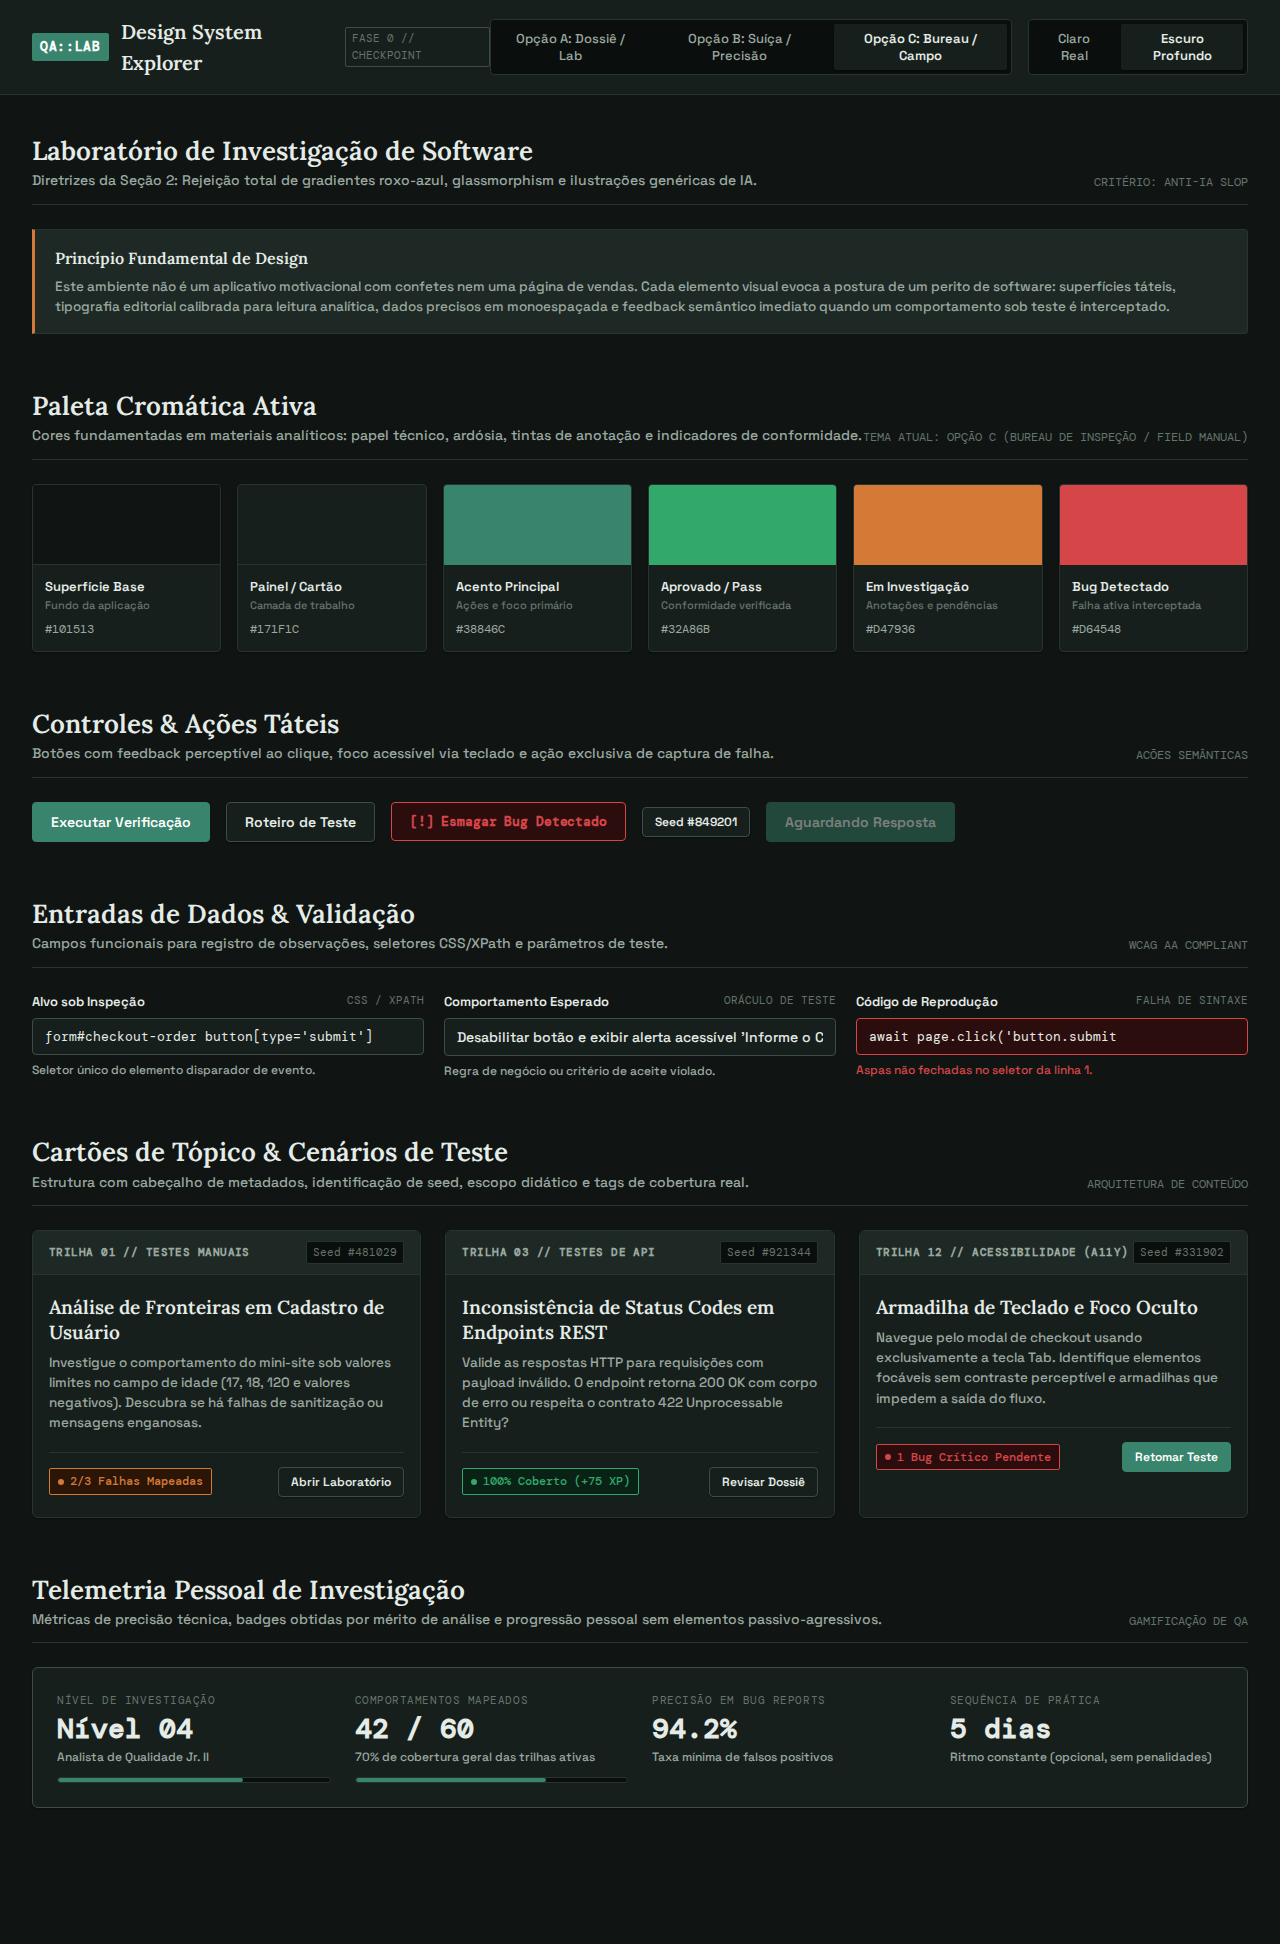
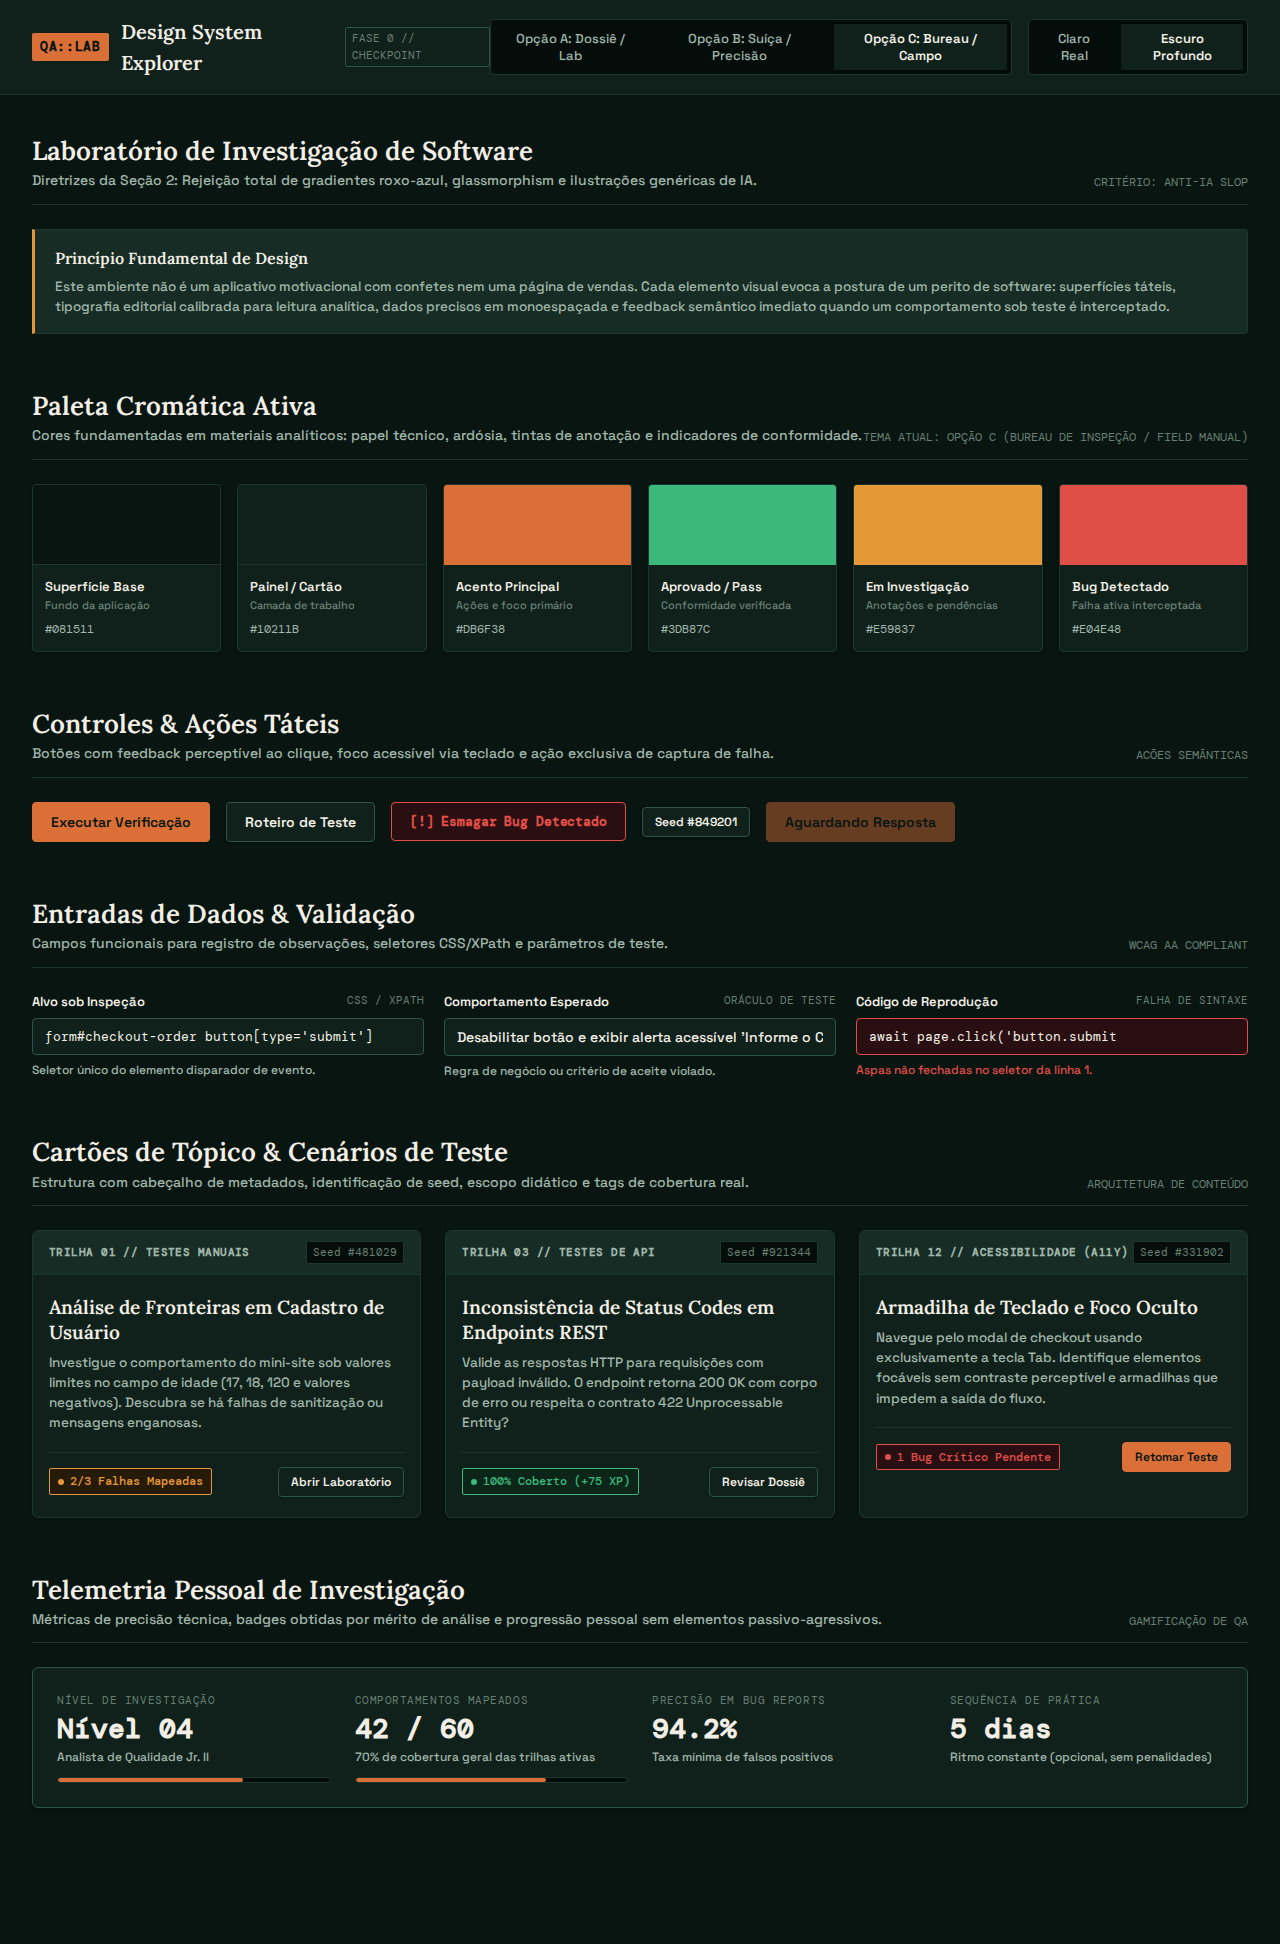
refactor(design-system): redesign Option C dark mode with deep forest green surfaces and prominent oxidized copper signature

diff --git a/prototypes/design-system.css b/prototypes/design-system.css
@@ -12,10 +12,10 @@
 @import url('https://fonts.googleapis.com/css2?family=DM+Mono:ital,wght@0,400;0,500;1,400&family=IBM+Plex+Mono:wght@400;500;600&family=IBM+Plex+Sans:wght@400;500;600;700&family=JetBrains+Mono:wght@400;500;600;700&family=Lora:ital,wght@0,500;0,600;1,400&family=Newsreader:ital,opsz,wght@0,6..72,400;0,6..72,500;0,6..72,600;1,6..72,400&family=Plus+Jakarta+Sans:wght@400;500;600;700&family=Space+Grotesk:wght@500;600;700&display=swap');
 
 /* ==========================================================================
-   THEME EXPLORATION 1: DOSSIÊ INVESTIGATIVO / LAB TELEMETRY (Padrão Recomendado)
+   THEME EXPLORATION 1: DOSSIÊ INVESTIGATIVO / LAB TELEMETRY (Opção A)
    ========================================================================== */
 [data-theme="option-a"][data-mode="light"] {
-  --bg-app: #F6F4EF;
+  --bg-app: #F6F4EF;                  /* Papel pergaminho técnico */
   --bg-surface: #FFFFFF;
   --bg-surface-raised: #FAF9F6;
   --bg-surface-sunken: #ECEAE3;
@@ -50,28 +50,28 @@
 }
 
 [data-theme="option-a"][data-mode="dark"] {
-  --bg-app: #0D1013;
-  --bg-surface: #15191D;
-  --bg-surface-raised: #1C2126;
-  --bg-surface-sunken: #090B0D;
-  --border-subtle: #242A30;
-  --border-strong: #363E47;
+  --bg-app: #091216;                  /* Ardósia petróleo mineral profunda */
+  --bg-surface: #0F1B22;              /* Painel em ardósia petróleo */
+  --bg-surface-raised: #16242D;
+  --bg-surface-sunken: #050B0D;
+  --border-subtle: #1C2F3A;
+  --border-strong: #2D4857;
   --border-focus: #3AA1B8;
 
-  --text-primary: #E6E9EC;
-  --text-secondary: #9DA6B0;
-  --text-muted: #6B7480;
+  --text-primary: #E7ECF0;
+  --text-secondary: #95A6B1;
+  --text-muted: #647682;
 
-  --accent-primary: #2D7D90;
-  --accent-primary-hover: #3AA1B8;
+  --accent-primary: #258197;          /* Petróleo luminoso calibrado */
+  --accent-primary-hover: #3299B2;
   --accent-primary-contrast: #FFFFFF;
 
-  --status-investigating: #D68A1A;
-  --status-investigating-bg: #271C0B;
-  --status-pass: #29A66C;
-  --status-pass-bg: #0C2317;
-  --status-bug: #D63F3F;
-  --status-bug-bg: #2B1111;
+  --status-investigating: #DE8F1F;
+  --status-investigating-bg: #271A09;
+  --status-pass: #26A96C;
+  --status-pass-bg: #092417;
+  --status-bug: #D64242;
+  --status-bug-bg: #2B0F0F;
 
   --font-display: 'Newsreader', Georgia, serif;
   --font-sans: 'Plus Jakarta Sans', -apple-system, BlinkMacSystemFont, sans-serif;
@@ -80,12 +80,12 @@
   --radius-sm: 3px;
   --radius-md: 6px;
   --radius-lg: 8px;
-  --shadow-subtle: 0 1px 3px rgba(0, 0, 0, 0.3);
-  --shadow-raised: 0 6px 16px rgba(0, 0, 0, 0.45);
+  --shadow-subtle: 0 1px 3px rgba(0, 0, 0, 0.35);
+  --shadow-raised: 0 6px 16px rgba(0, 0, 0, 0.5);
 }
 
 /* ==========================================================================
-   THEME EXPLORATION 2: ESTAÇÃO SUÍÇA / TECHNICAL PRECISION
+   THEME EXPLORATION 2: ESTAÇÃO SUÍÇA / TECHNICAL PRECISION (Opção B)
    ========================================================================== */
 [data-theme="option-b"][data-mode="light"] {
   --bg-app: #ECEEEF;
@@ -158,11 +158,13 @@
 }
 
 /* ==========================================================================
-   THEME EXPLORATION 3: BUREAU DE INSPEÇÃO / FIELD MANUAL
+   THEME EXPLORATION 3: BUREAU DE INSPEÇÃO / FIELD MANUAL (Opção C)
+   REDESENHADO: Modo escuro com superfícies em verde floresta profundo,
+   cobre oxidado preservado como cor de assinatura vibrante e contraste tátil.
    ========================================================================== */
 [data-theme="option-c"][data-mode="light"] {
-  --bg-app: #F2EFE9;
-  --bg-surface: #FAF8F4;
+  --bg-app: #F2EFE9;                  /* Cartão kraft fino */
+  --bg-surface: #FAF8F4;              /* Papel de campo marfim */
   --bg-surface-raised: #FFFFFF;
   --bg-surface-sunken: #E5E1D7;
   --border-subtle: #D5D0C3;
@@ -196,28 +198,30 @@
 }
 
 [data-theme="option-c"][data-mode="dark"] {
-  --bg-app: #101513;
-  --bg-surface: #171F1C;
-  --bg-surface-raised: #1E2925;
-  --bg-surface-sunken: #0A0E0C;
-  --border-subtle: #27342F;
-  --border-strong: #3B4D46;
-  --border-focus: #4EA387;
+  /* Fundo atmosférico em Verde Floresta Noturno (pigmento conífero real) */
+  --bg-app: #081511;                  /* Noite florestal densa com pigmento real de pinho */
+  --bg-surface: #10211B;              /* Painel em ardósia conífera encorpada */
+  --bg-surface-raised: #162C24;       /* Camada sobreposta destacada */
+  --bg-surface-sunken: #050D0A;       /* Reentrância profunda */
+  --border-subtle: #1C382E;           /* Filete de musgo escuro */
+  --border-strong: #2D5446;           /* Borda estrutural nítida */
+  --border-focus: #DB6F38;            /* Foco no cobre de assinatura */
 
-  --text-primary: #E5ECE7;
-  --text-secondary: #9AA8A0;
-  --text-muted: #64736B;
+  --text-primary: #F3EFE6;            /* Marfim quente de pergaminho antigo (legibilidade máxima) */
+  --text-secondary: #A0B6AA;          /* Sálvia acinzentada técnica */
+  --text-muted: #677F73;              /* Notas de rodapé e metadados discretos */
 
-  --accent-primary: #38846C;
-  --accent-primary-hover: #4EA387;
-  --accent-primary-contrast: #FFFFFF;
+  /* Cobre Oxidado preservado como cor de assinatura vibrante */
+  --accent-primary: #DB6F38;          /* Cobre oxidado de alta presença visual */
+  --accent-primary-hover: #E88350;
+  --accent-primary-contrast: #081511; /* Texto em verde conífero escuro sobre botão de cobre */
 
-  --status-investigating: #D47936;
-  --status-investigating-bg: #2A1507;
-  --status-pass: #32A86B;
-  --status-pass-bg: #0A2216;
-  --status-bug: #D64548;
-  --status-bug-bg: #2B0D0E;
+  --status-investigating: #E59837;    /* Âmbar de lamparina */
+  --status-investigating-bg: #261A09;
+  --status-pass: #3DB87C;             /* Verde pinho iluminado */
+  --status-pass-bg: #0B2519;
+  --status-bug: #E04E48;              /* Terracota viva de alerta */
+  --status-bug-bg: #290F11;
 
   --font-display: 'Lora', Georgia, serif;
   --font-sans: 'Space Grotesk', sans-serif;
@@ -226,8 +230,8 @@
   --radius-sm: 2px;
   --radius-md: 4px;
   --radius-lg: 6px;
-  --shadow-subtle: 0 1px 2px rgba(0, 0, 0, 0.4);
-  --shadow-raised: 0 4px 12px rgba(0, 0, 0, 0.5);
+  --shadow-subtle: 0 1px 3px rgba(0, 8, 5, 0.4);
+  --shadow-raised: 0 4px 14px rgba(0, 8, 5, 0.6);
 }
 
 /* ==========================================================================
@@ -568,7 +572,7 @@ body {
 .qa-input:focus {
   outline: none;
   border-color: var(--border-focus);
-  box-shadow: 0 0 0 3px rgba(14, 77, 94, 0.15);
+  box-shadow: 0 0 0 3px rgba(219, 111, 56, 0.2);
 }
 
 .qa-input-mono {
